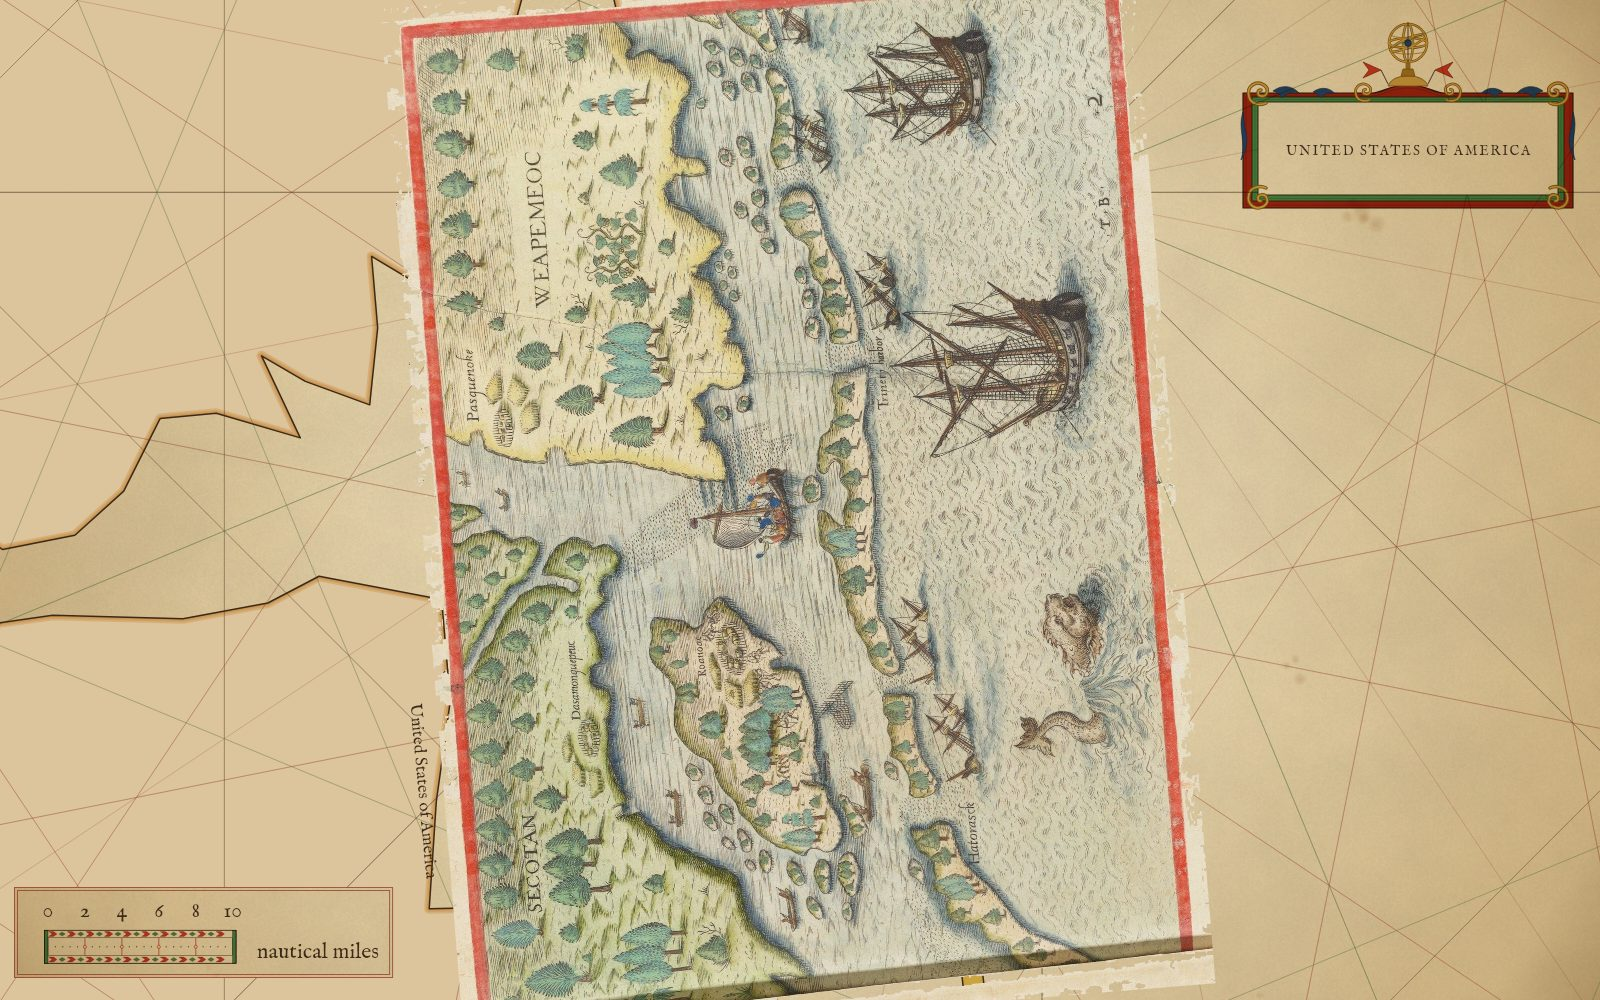
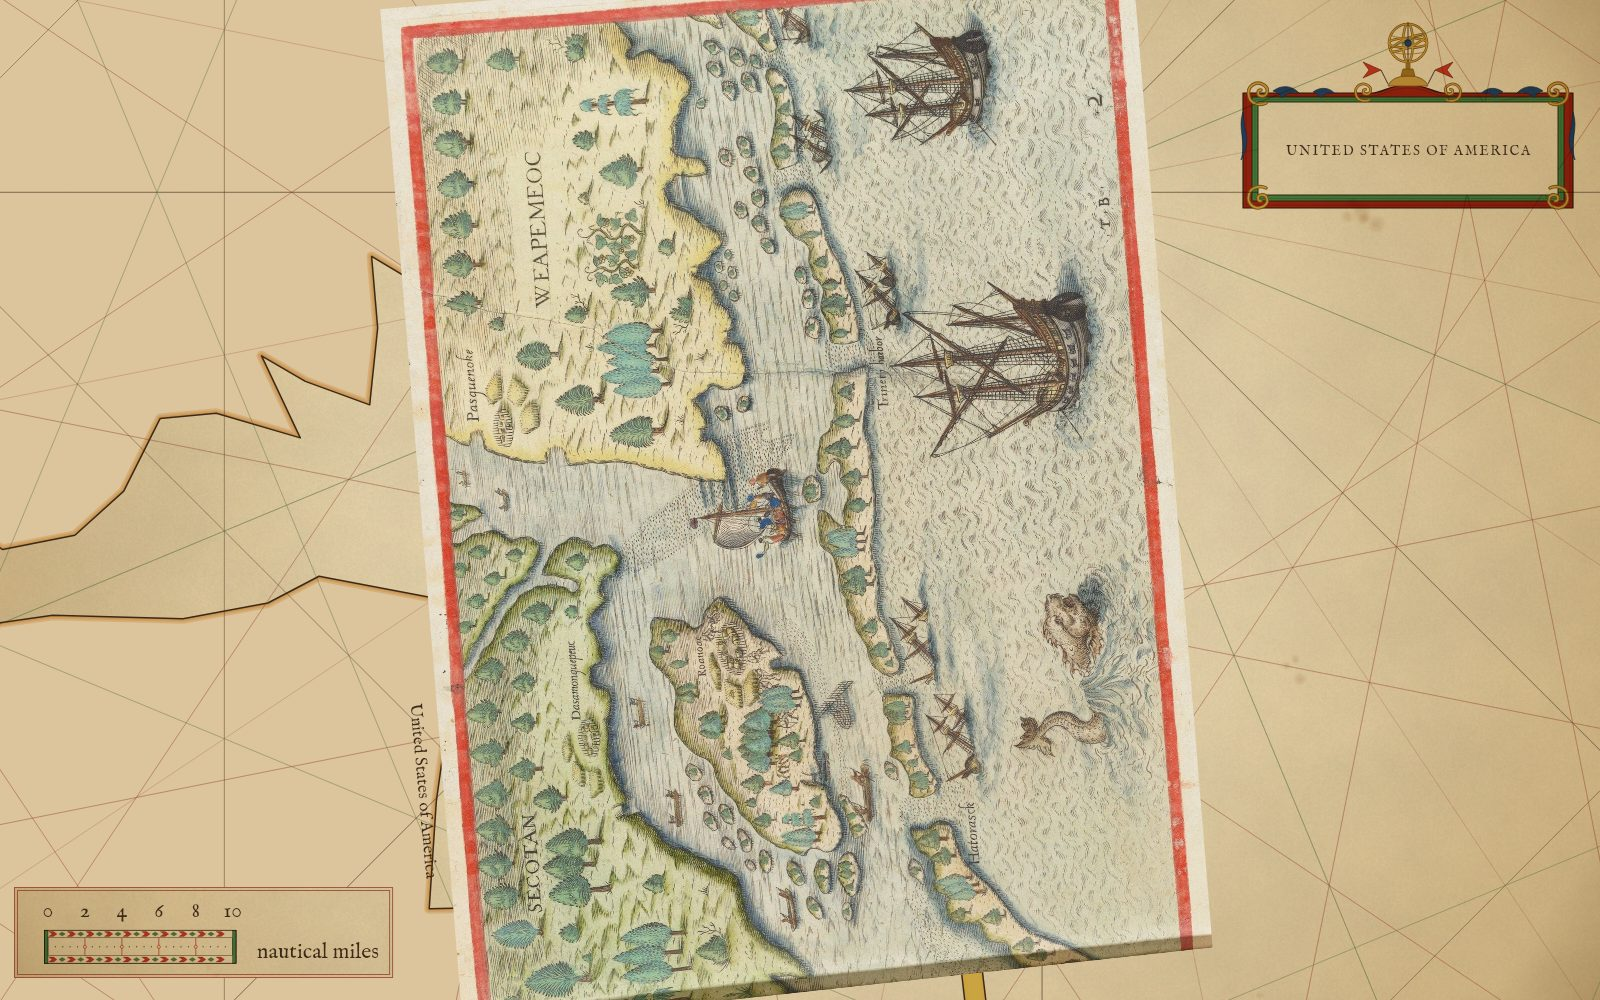
fix(overlay): de Bry's Virginia masked by straight sides; the new README section after the mask notes, cut short
- The flood fill trimmed the plate's margin raggedly; an outline of four
  straight sides now keeps the margin and the red border, the left side
  on the leaf's own edge at the gutter.
- The four-chart section moves below the Oliva section's mask notes and
  --only line, gets its own heading, and its bullets are cut to the
  chart, the source, the RMS and the one oddity.

diff --git a/docs/overlay/README.md b/docs/overlay/README.md
@@ -288,25 +288,6 @@ Each is laid level by landmarks read off the scan by eye, as above (`levelFit`; 
 
 ![The Kitab-ı Bahriye's Adriatic folio over the map, turned so its coasts lie on today's](kitab-i-bahriye-adriatic-sheet.jpg)
 
-## Four more: the Carte Pisane, Vesconte, Dulcert and de Bry's Virginia
-
-The four Charts drawer rows that had no scan, each laid by landmarks read off the scan by eye and fitted by a similarity with its turn (`turned: true`); the misses are in km against today's place.
-
-- **The Carte Pisane, about 1275** (Bibliothèque nationale de France, GE B-1118; public domain): the oldest portolan chart to survive, the whole skin photographed on black. The BnF photographed it south up (England and Flanders at the foot, Africa along the top, the neck to the east), so the fit turns it half round, less 7.5 degrees for the chart's own north. Eleven landmarks (Cape Passero, Messina, Trapani, Genoa, Marseille, Barcelona, Valencia, Almería, Acre, Cyprus, Crete), 49 km RMS (3 to 82 km); held level, 160 km. The Black Sea end is stained past reading and carries none. Built at a quarter, 4211 x 2017 px, keyed on black (`dark`). It has no `up`: as drawn, the skin stands as the BnF photographed it.
-- **Pietro Vesconte, 1311** (Archivio di Stato, Florence): the oldest signed and dated portolan chart, the eastern Mediterranean and the Black Sea. No photograph of the original was found at a usable size and free to lay, so the scan is A. E. Nordenskiöld's photographic facsimile in *Periplus* (Stockholm 1897), plate V (Library of Congress, via Commons; public domain): black and white, the skin on the book's open page. The `outline` traces the skin, neck and torn edge, so the page and the book's binding are keyed. Nine landmarks (the Bosporus, the tip of Crimea, Kerch, Trebizond, the two ends of Crete, Jaffa, Tripoli, Alexandria), 62 km RMS (33 to 102 km), turned 8.3 degrees clockwise; held level, 121 km. Built at a third, 2805 x 2038 px.
-- **Angelino Dulcert, Majorca, 1339** (Bibliothèque nationale de France, GE B-696; public domain): the Mediterranean, the Black Sea, the Atlantic coasts to the Baltic, and the lands behind them with their kings and flags, north up. The skin lies on a dark cloth that no key separates from its shadowed edge, so the `outline` is its four sides, read from where the scan's brightness rises. Ten landmarks (Finisterre, Porto, Lisbon, Cap Corse, Cape Teulada, Trapani, Crete, Cyprus, Jaffa, Alexandria), 46 km RMS (6 to 83 km), turned 10 degrees clockwise; held level, 273 km. Built at a quarter, 4092 x 3044 px.
-- **De Bry after John White, the arrival of the Englishmen in Virginia, 1590** (the `debry-virginia` scan the debry sprites are cut from, Harvard via the Public Domain Image Archive): Roanoke Island, the sounds and the Outer Banks, drawn west up, so the fit turns it 94.6 degrees anticlockwise. Nine landmarks (Roanoke's two ends and middle, Dasamonquepeuc, the Albemarle Sound, Hatorask, the inlet south of Roanoke, Trinety harbor, Pasquenoke), 11 km RMS (1 to 18 km); held level, 27 km. It is a picture more than a survey: the banks are drawn close in, and Hatorask and Trinety harbor are placed by the usual readings of the names, so it lies true only round Roanoke. At its only size, 2304 x 1672 px (scale 1); the flood fill keys the margin.
-
-`npm run render -- --view 19.08,39.59,3.6 --overlay carte-pisane --out docs/overlay/carte-pisane-sheet.jpg`, `npm run render -- --view 29,38.5,4.3 --overlay vesconte-1311 --out docs/overlay/vesconte-1311-sheet.jpg`, `npm run render -- --view 17.27,39.68,3.2 --overlay dulcert-1339 --out docs/overlay/dulcert-1339-sheet.jpg` and `npm run render -- --view -75.67,36.06,9.3 --overlay debry-virginia --out docs/overlay/debry-virginia-sheet.jpg`.
-
-![The Carte Pisane over the map, turned north up](carte-pisane-sheet.jpg)
-
-![Vesconte's 1311 chart, from Nordenskiöld's plate, over the map](vesconte-1311-sheet.jpg)
-
-![Dulcert's 1339 chart over the map, turned 10 degrees](dulcert-1339-sheet.jpg)
-
-![De Bry's Virginia over the Outer Banks, turned north up](debry-virginia-sheet.jpg)
-
 The scanner mask keys only the scanner's background, never the skin. A flood fill from the border does that on a
 scan laid on light paper; it fails on a scan laid on black, where the skin's own dark edge or binding fades into the
 background and the fill eats a ragged line into it. Such a chart carries an `outline` instead: a polygon in scan px
@@ -320,3 +301,22 @@ scan's own edge, so the whole lower edge and the worn binding stay in. The keyed
 ![Olives's mask: four straight sides round the binding](olives-1559-mask.jpg)
 
 `npm run overlays -- --only oliva-mediterranean,lopes-atlantic,olives-1559,panades-1557,kitab-i-bahriye-adriatic,carte-pisane,vesconte-1311,dulcert-1339,debry-virginia` rebuilds just those and keeps the other rows of overlays.json as they are; an id that is no chart, or no id at all, is an error.
+
+## The four that had no scan: the Carte Pisane, Vesconte, Dulcert and de Bry's Virginia
+
+Each laid by landmarks read off the scan by eye, fitted with its turn (`turned: true`); `scripts/build-overlays.mjs` lists the landmarks. RMS is the miss against today's places, held level in brackets.
+
+- **Carte Pisane, about 1275** (BnF GE B-1118; public domain): 49 km (160); photographed south up, so turned half round.
+- **Vesconte, 1311** (Florence): 62 km (121); laid from Nordenskiöld's photographic plate of 1897, not the original.
+- **Dulcert, Majorca, 1339** (BnF GE B-696; public domain): 46 km (273); an `outline` of four sides off its dark cloth.
+- **De Bry, Virginia, 1590** (the `debry-virginia` scan): 11 km (27); drawn west up; an `outline` of straight sides keeps the margin.
+
+`npm run render -- --view 19.08,39.59,3.6 --overlay carte-pisane --out docs/overlay/carte-pisane-sheet.jpg`, `npm run render -- --view 29,38.5,4.3 --overlay vesconte-1311 --out docs/overlay/vesconte-1311-sheet.jpg`, `npm run render -- --view 17.27,39.68,3.2 --overlay dulcert-1339 --out docs/overlay/dulcert-1339-sheet.jpg` and `npm run render -- --view -75.67,36.06,9.3 --overlay debry-virginia --out docs/overlay/debry-virginia-sheet.jpg`.
+
+![The Carte Pisane over the map, turned north up](carte-pisane-sheet.jpg)
+
+![Vesconte's 1311 chart, from Nordenskiöld's plate, over the map](vesconte-1311-sheet.jpg)
+
+![Dulcert's 1339 chart over the map, turned 10 degrees](dulcert-1339-sheet.jpg)
+
+![De Bry's Virginia over the Outer Banks, turned north up](debry-virginia-sheet.jpg)
